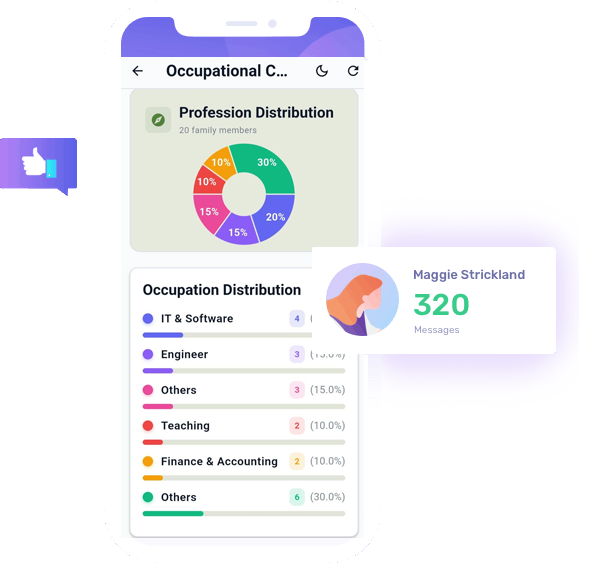
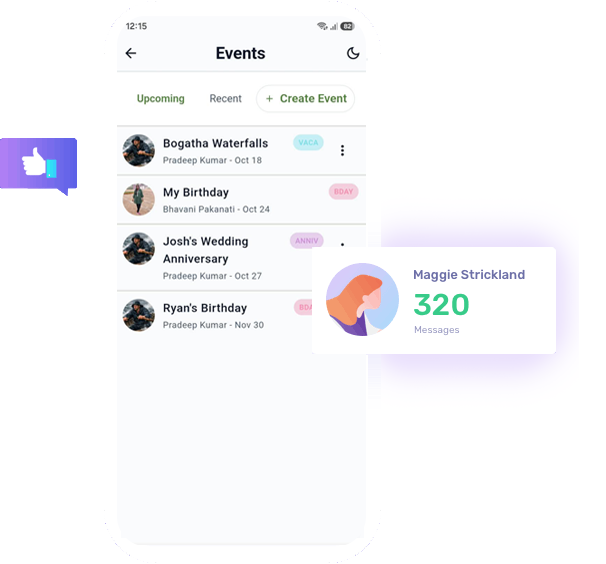
updated

Changed region(s): [[0.1782, 0.0301, 0.6238, 0.9344], [0.5644, 0.9344, 0.5941, 0.9645], [0.2079, 0.9344, 0.2376, 0.9645]]

diff --git a/speedarp/index.html b/speedarp/index.html
@@ -120,8 +120,8 @@
                                 <p class="wow fadeInUp" data-wow-delay=".7s" style="visibility: visible; animation-delay: 0.7s; animation-name: fadeInUp;">In a world where family bonds risk fading,<br>Speedarp empowers you to safeguard traditions,<br>nurture priceless connections, and ensure your family <br>legacy continues across generations.</p>
                                    
                                 <div class="button wow fadeInUp" data-wow-delay=".9s" style="visibility: visible; animation-delay: 0.9s; animation-name: fadeInUp;">
-                                    <a href="#" class="btn"><i class="lni lni-playstore"></i> Play Store</a>
-                                    <a href="#" class="btn primary"><i class="lni lni-apple"></i> App Store</a>
+                                    <a href="https://play.google.com/store/apps/details?id=com.speedarp" class="btn" target="_blank"><i class="lni lni-playstore"></i> Play Store</a>
+                                    <a href="https://apps.apple.com/in/app/speedarp/id6769322363" class="btn primary" target="_blank"><i class="lni lni-apple"></i> App Store</a>
                                 </div>
                             </div>
                         </div>
@@ -417,7 +417,7 @@
                         <h3 class="counter">Download from Google Play</h3>
                         <p>Celebrate your roots — get Speedarp on Android today.</p>
                         <div class="button">
-                            <a href="#" class="btn">
+                            <a href="https://play.google.com/store/apps/details?id=com.speedarp" class="btn" target="_blank">
                                 <i class="lni lni-playstore"></i>
                                 <span>get it on</span>
                                 Google Play
@@ -430,7 +430,7 @@
                         <h3 class="counter">Download from Apple Store</h3>
                         <p>Bond beyond generations- download Speedarp now for your iPhone or iPad.</p>
                         <div class="button">
-                            <a href="#" class="btn">
+                            <a href="https://apps.apple.com/in/app/speedarp/id6769322363" class="btn" target="_blank">
                                 <i class="lni lni-apple"></i>
                                 <span>Download on the</span>
                                 Apps Store
